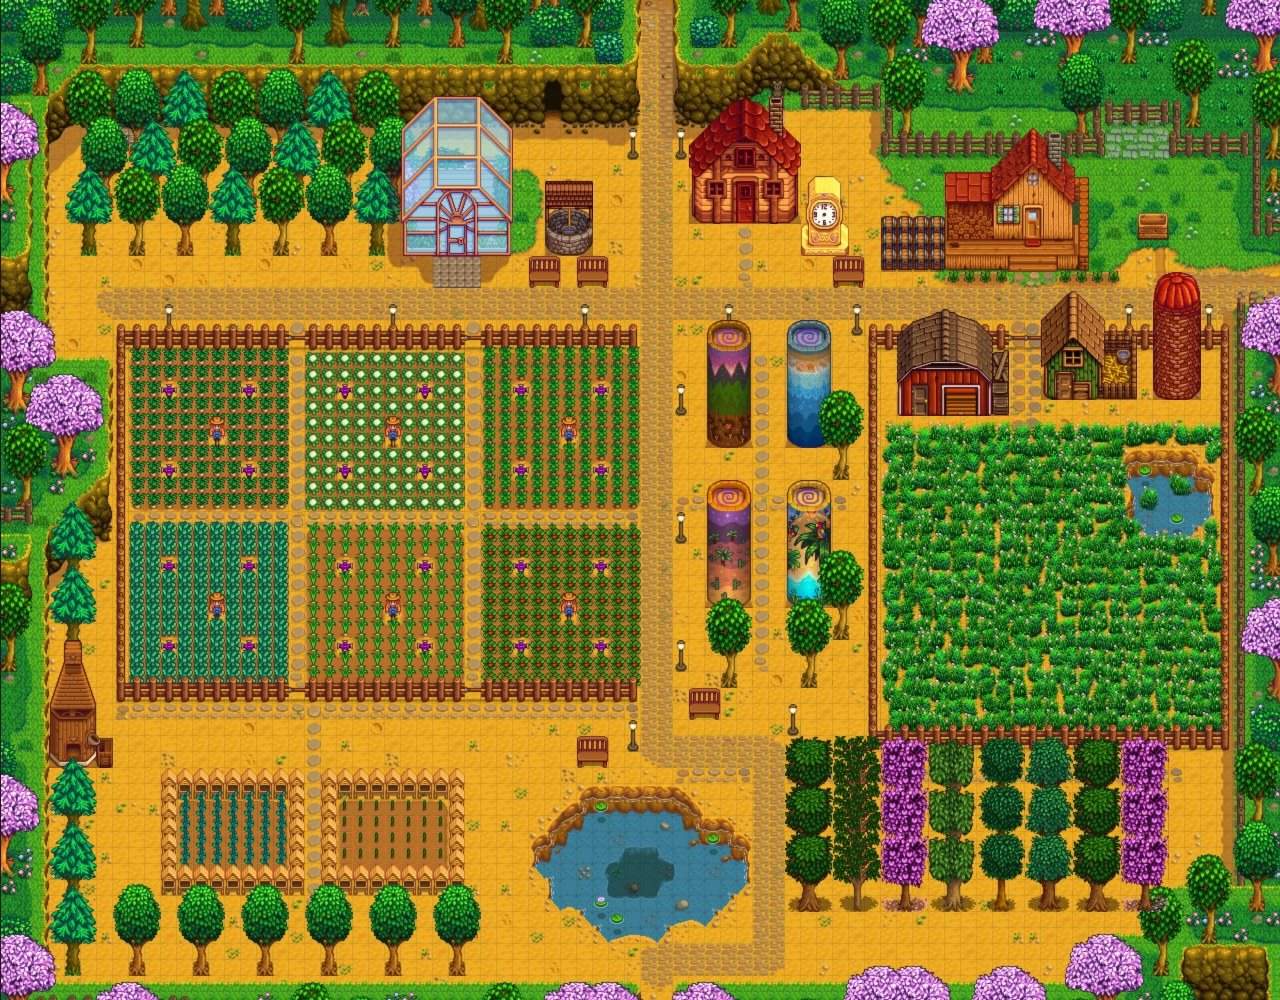
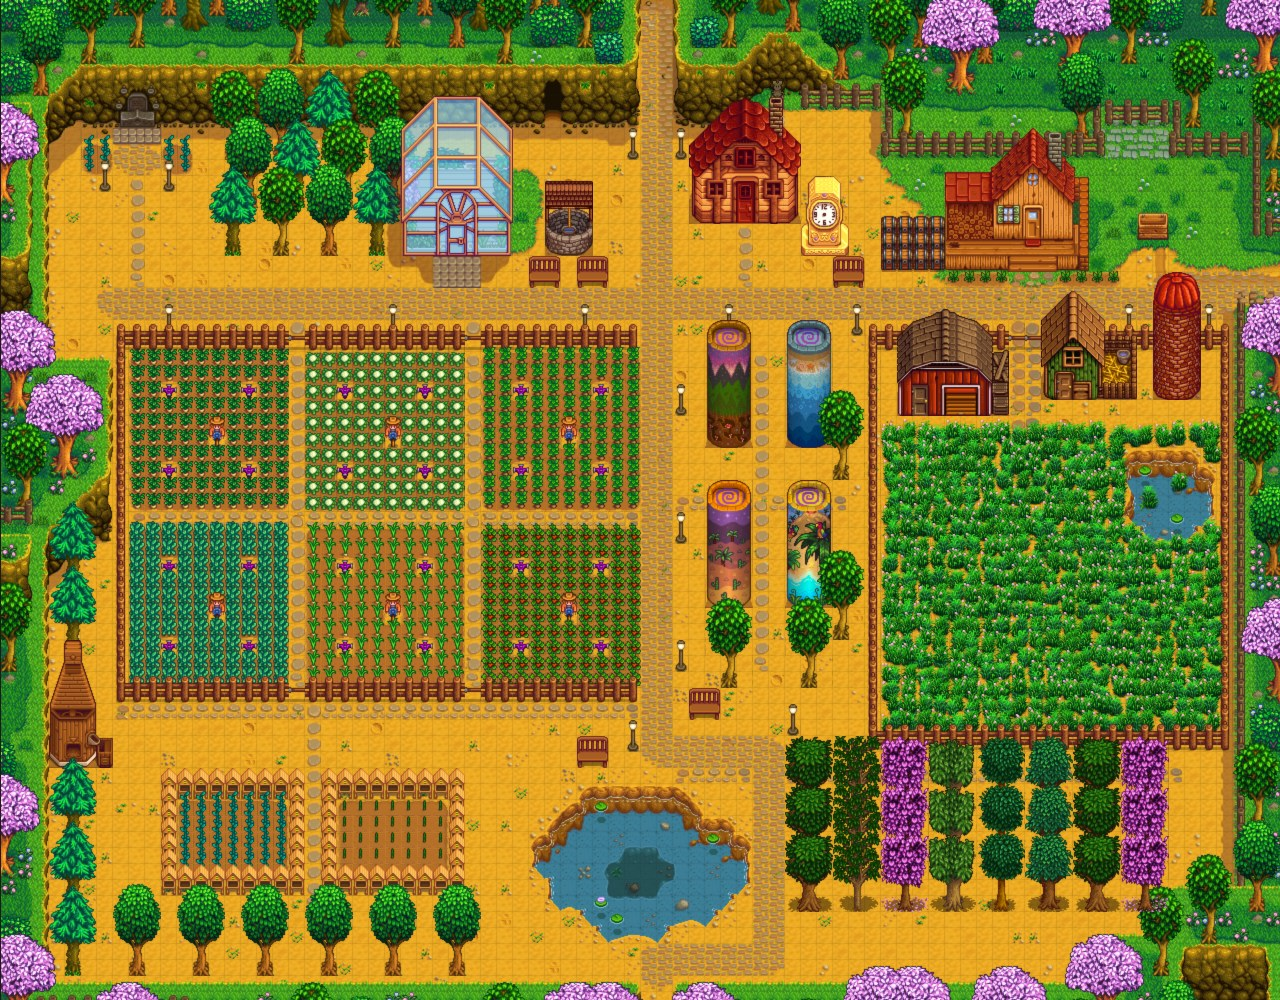
fix(Quy hoach): Keep Grandpa's Shrine open in our own layout
- Problem: the grove west of the greenhouse planted an oak right in
  front of the shrine's steps at (8, 9), with two more trees beside it.
  Their canopies hid the shrine on the plan, and in game a tree there
  would block the tile the player stands on for Grandpa's evaluation at
  the start of year 3.

- Solution: the corner above the main road with x up to 12 now has no
  trees. A Cobblestone forecourt sits below the steps, a Stepping Stone
  lane runs straight down to the road, and Fairy Rose beds with two Iron
  Lamp-posts frame it. The note gives the shrine its own entry with
  these tiles, and its planner link now points to the corrected plan.

- Implications: the shrine's tiles (x 7-9, y 5-8, steps at y = 8) were
  read from the planner's own Standard Farm background and match the
  non-buildable gap in its buildable layer. The corrected plan reopened
  in a fresh page with 14 buildings, 1,375 objects and 514 path tiles.
  The previous link stays online with the hidden shrine, since the
  planner cannot delete plans.

Changed region(s): [[0.6875, 0.403, 0.9688, 0.744], [0.0312, 0.062, 0.1875, 0.279]]

diff --git a/StardewValley/Quy hoạch nông trại.md b/StardewValley/Quy hoạch nông trại.md
@@ -140,7 +140,7 @@ Trắng còn trống trong bảng hiện tại, cũng như Hồng và Vàng nế
 
 ![[assets/my-farm-plan-rieng.jpg|700]]
 
-**Link planner:** https://stardew.info/planner/18-near-newts-hid-easily
+**Link planner:** https://stardew.info/planner/10-sour-chickens-hid-cordially
 
 Tự thiết kế, không chép mẫu nào, theo tiêu chí **đẹp · đơn giản · gọn gàng · tiện dùng** và có đủ đồ trang trí, cây cối, đường lát, tường rào. Đã chốt trước khi dựng:
 - **Dài hạn nhưng xây dần:** năm 1 chỉ làm đường chính và ô ruộng sát trục dọc, các khu khác để trống chờ.
@@ -168,6 +168,12 @@ Cố ý **không** có Chòi nuôi Slime, Hồ Cá, Lều Junimo hay dãy máy n
 | Giếng cạnh nhà kính | (34, 13), nền 3 × 3 |
 | Bồn Tulip hai bên cửa nhà | x 59–62 và 66–69, y = 17 (lối x 63–65 để trống) |
 | Ghế băng Gỗ sồi | (33, 17) (36, 17) cạnh giếng · (52, 17) cạnh xưởng |
+
+**Mộ ông nội** (có sẵn trên bản đồ, x 7–9, y 5–8, bậc đá ở y = 8) — giữ **thoáng** vì đầu năm 3 ông về chấm điểm và phải đứng trước bậc đá mới tương tác được:
+- Sân **Đường lát đá** ngay trước bậc: x 7–9, y 9–10.
+- Lối **Đường đá dậm bước** thẳng xuống đường chính: x = 8, y 11–17.
+- Hai bồn **Hoa hồng tiên** hai bên sân (x 5–6 và x 10–11, y 9–10) cùng hai **Cột đèn sắt** ở (6, 11) và (10, 11).
+- Không trồng cây trong góc x ≤ 12 phía trên đường chính.
 
 **3 · Ruộng phía tây** — 6 ô 10 × 10, mỗi ô **4 Vòi phun nước Iridium** tưới vừa khít 100 ô, **Bù nhìn** ở giữa ô:
 
@@ -207,7 +213,7 @@ Cửa chuồng quay xuống bãi cỏ, nên thả thú ra là chúng ăn cỏ ng
 Lối dậm bước hình chữ thập ở x = 47 (y 22–41) và y = 31 (x 42–52). Có thêm vài cây phong quanh vườn trụ, và hai ghế băng cạnh ao phía nam ở (36, 47) và (43, 44).
 
 **8 · Cây cối:**
-- Rừng nhỏ gồm phong, sồi, thông ở phía tây nhà kính (x 5–22, y 9–15).
+- Rừng nhỏ gồm phong, sồi, thông ở phía tây nhà kính (x 13–22, y 9–15), chừa trống góc mộ ông nội.
 - Hàng thông dọc mép tây (x = 4).
 - Hàng sồi dọc mép nam (y = 60, x 8–28).
 
